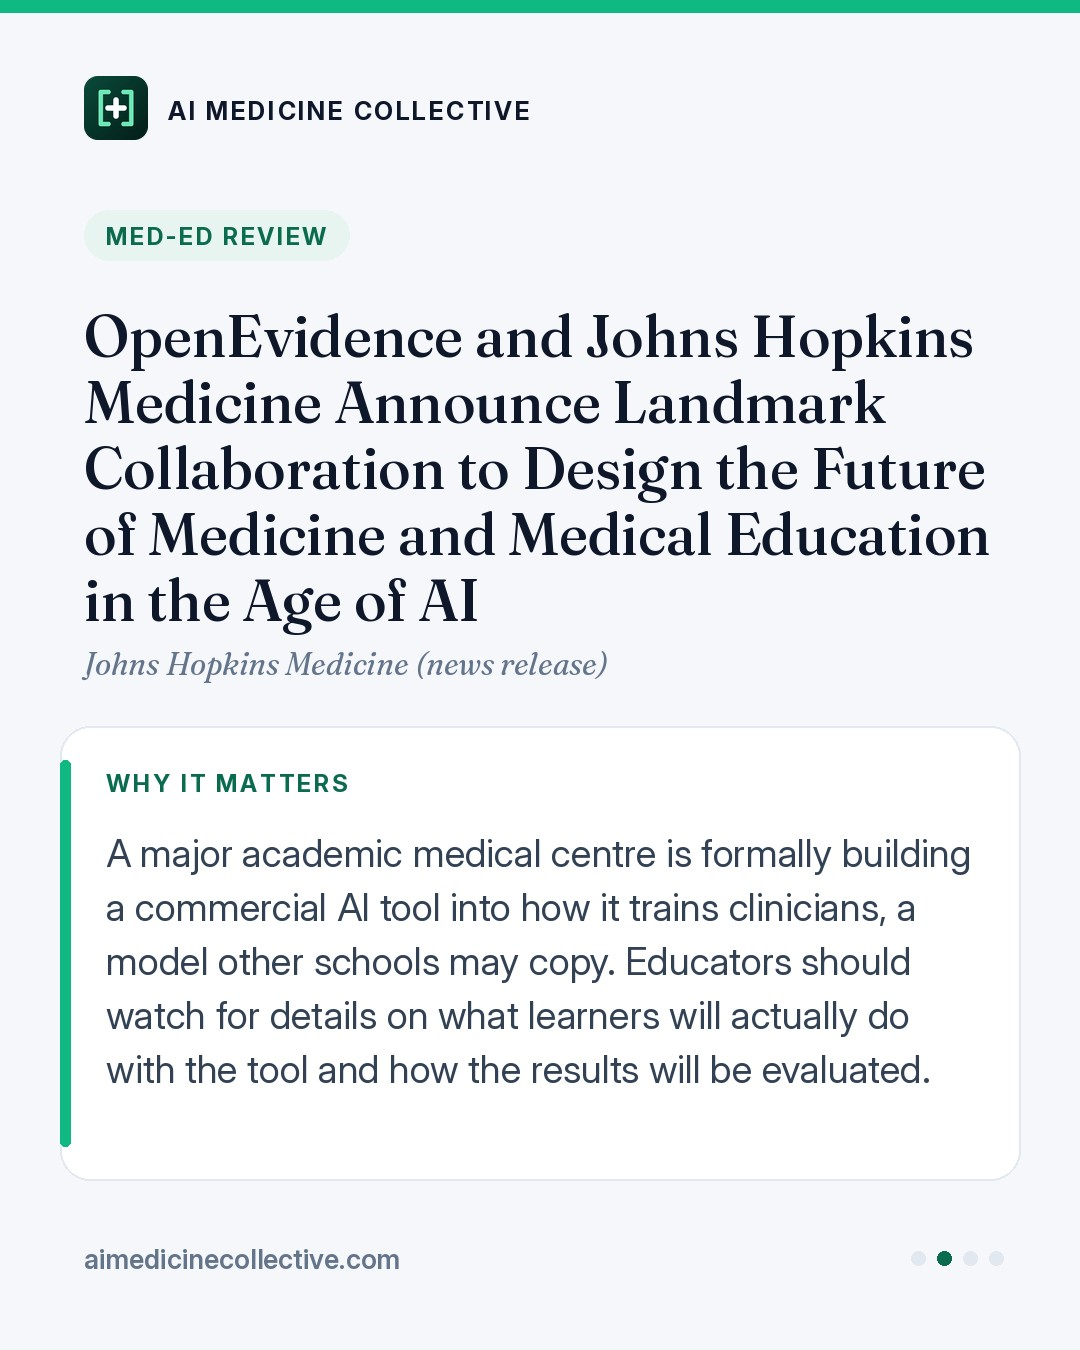
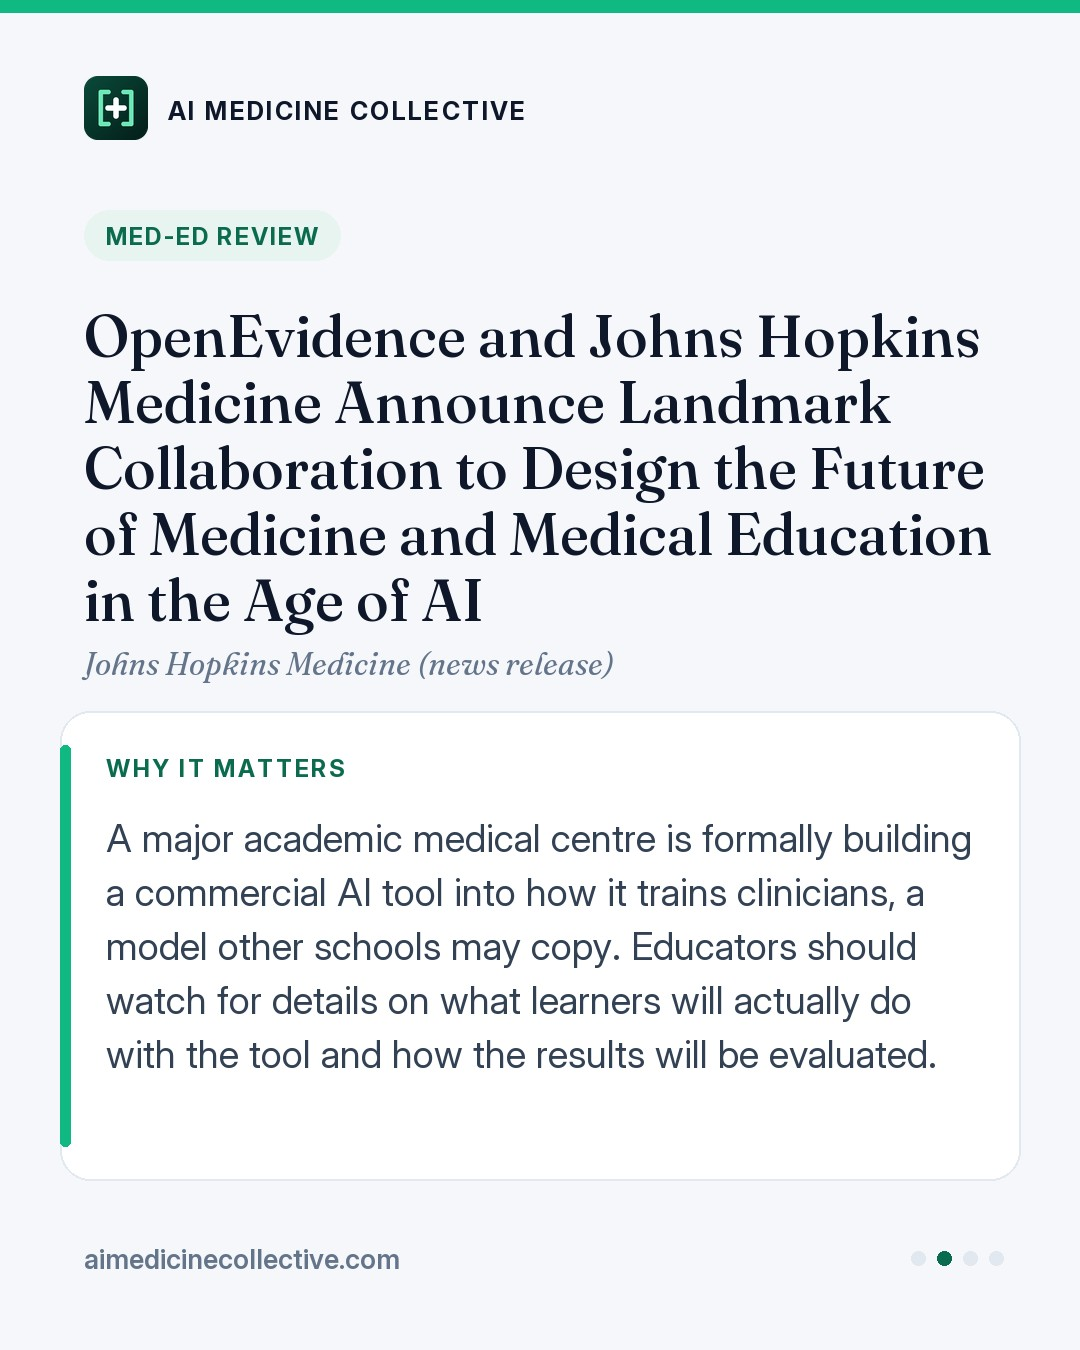
Instagram slides: long headlines and sources no longer overlap or run off the slide
- Cover: the headline is sized to leave room for the line under it
- Review slides: a long source wraps to two lines
- Publisher: a 'repost' option for corrected carousels
- Monday's (2026-10-19) slides redrawn

diff --git a/scripts/blog_agent/instagram.py b/scripts/blog_agent/instagram.py
@@ -229,8 +229,9 @@ def card_slide(index: int, total: int, labels: list, title: str, source: str,
     font, lines = fit(draw, title, lambda s: serif(s, 500), range(66, 43, -2), W - 2 * PAD, 5)
     y = paragraph(draw, (PAD, 300), lines, font, INK, 1.14)
     if source:
-        draw.text((PAD, y + 14), source, font=serif(31, 400, italic=True), fill=MUTED)
-        y += 96
+        # a long source wraps (at most two lines) instead of running off the slide
+        small, source_lines = fit(draw, source, lambda s: serif(s, 400, italic=True), range(31, 25, -2), W - 2 * PAD, 2)
+        y = paragraph(draw, (PAD, y + 14), source_lines, small, MUTED, 1.25) + 28
     else:
         y += 40
 
@@ -330,10 +331,20 @@ def title_slide(kicker: str, headline: str, sub: str, total: int) -> Image.Image
     width = tracked_width(draw, kicker, font, 2.6) + 52
     draw.rounded_rectangle((PAD, 300, PAD + width, 356), radius=28, fill=(18, 62, 54), outline=(44, 96, 86))
     tracked(draw, (PAD + 26, 314), kicker, font, MINT, 2.6)
-    font, lines = fit(draw, headline, lambda s: serif(s, 500), range(104, 59, -4), W - 2 * PAD, 7)
-    y = paragraph(draw, (PAD, 410), lines, font, (255, 255, 255), 1.08)
+    # The headline gets the largest size at which it, and the line under it,
+    # fit above the "Swipe" line; it never runs into what follows.
+    top, bottom = 410, H - 150 - (70 if sub else 0)
+    for size in range(104, 47, -4):
+        font = serif(size, 500)
+        lines = wrap(draw, headline, font, W - 2 * PAD)
+        if len(lines) * round(size * 1.08) <= bottom - top:
+            break
+    else:
+        font, lines = fit(draw, headline, lambda s: serif(s, 500), range(48, 47, -1), W - 2 * PAD,
+                          max(1, (bottom - top) // round(48 * 1.08)))
+    y = paragraph(draw, (PAD, top), lines, font, (255, 255, 255), 1.08)
     if sub:
-        draw.text((PAD, min(y + 36, H - 250)), sub, font=serif(40, 400, italic=True), fill=MINT)
+        draw.text((PAD, y + 22), sub, font=serif(40, 400, italic=True), fill=MINT)
     draw.text((PAD, H - 108), "Swipe for the takeaways  →", font=sans(29, 600), fill=MINT)
     footer_dots_only(draw, 0, total, dark=True)
     return im

diff --git a/scripts/blog_agent/instagram_publish.py b/scripts/blog_agent/instagram_publish.py
@@ -111,6 +111,9 @@ def main() -> int:
     parser.add_argument("--name", "--date", dest="name", required=True,
                         help="The folder under social/: a blog post's date, digest-<date> or review-<date>")
     parser.add_argument("--dry-run", action="store_true", help="Show what would be posted; contact nobody")
+    parser.add_argument("--repost", action="store_true",
+                        help="Post even if this carousel is already on the account (a corrected version); "
+                             "the old post has to be deleted by hand in the Instagram app")
     args = parser.parse_args()
 
     if not all(ch.isalnum() or ch == "-" for ch in args.name):
@@ -189,7 +192,7 @@ def main() -> int:
         if user is None:
             raise problem or ApiError("could not work out which Instagram account the token belongs to")
         print(f"Posting as @{me.get('username', '?')}")
-        if any(marker in (media.get("caption") or "") for media in recent.get("data", [])):
+        if not args.repost and any(marker in (media.get("caption") or "") for media in recent.get("data", [])):
             print(f"The {args.name} post is already on Instagram; nothing to do.")
             return 0
 
